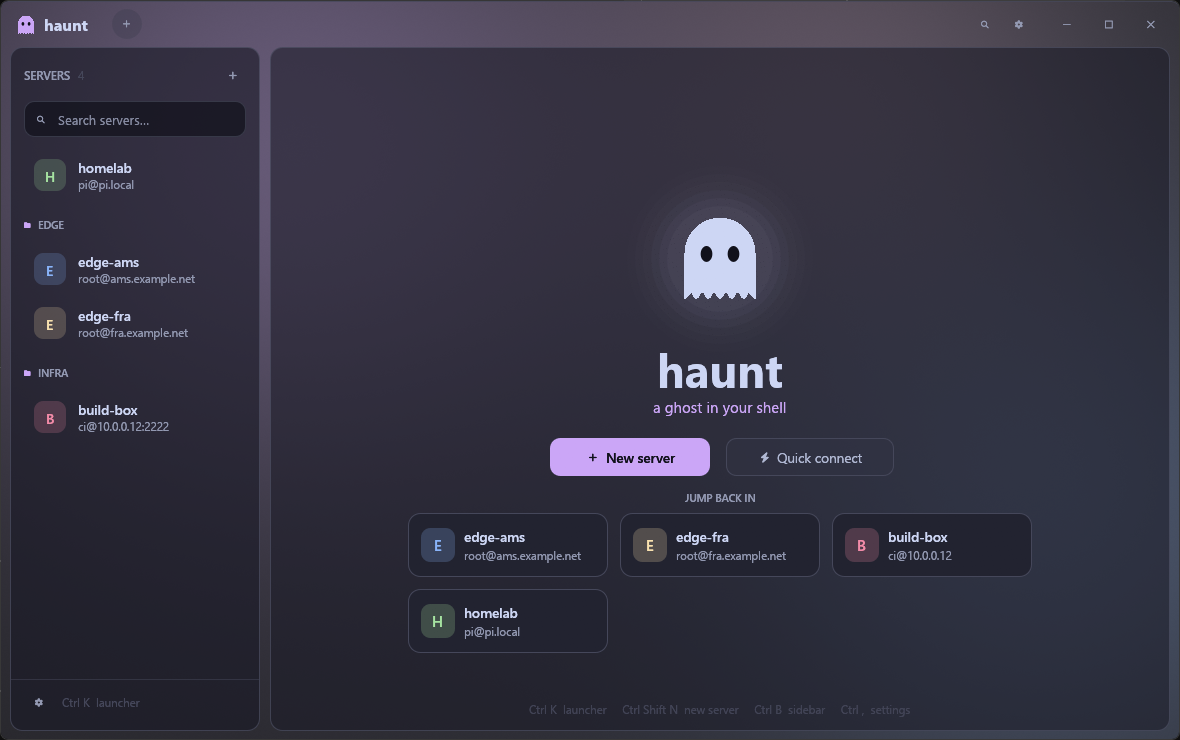
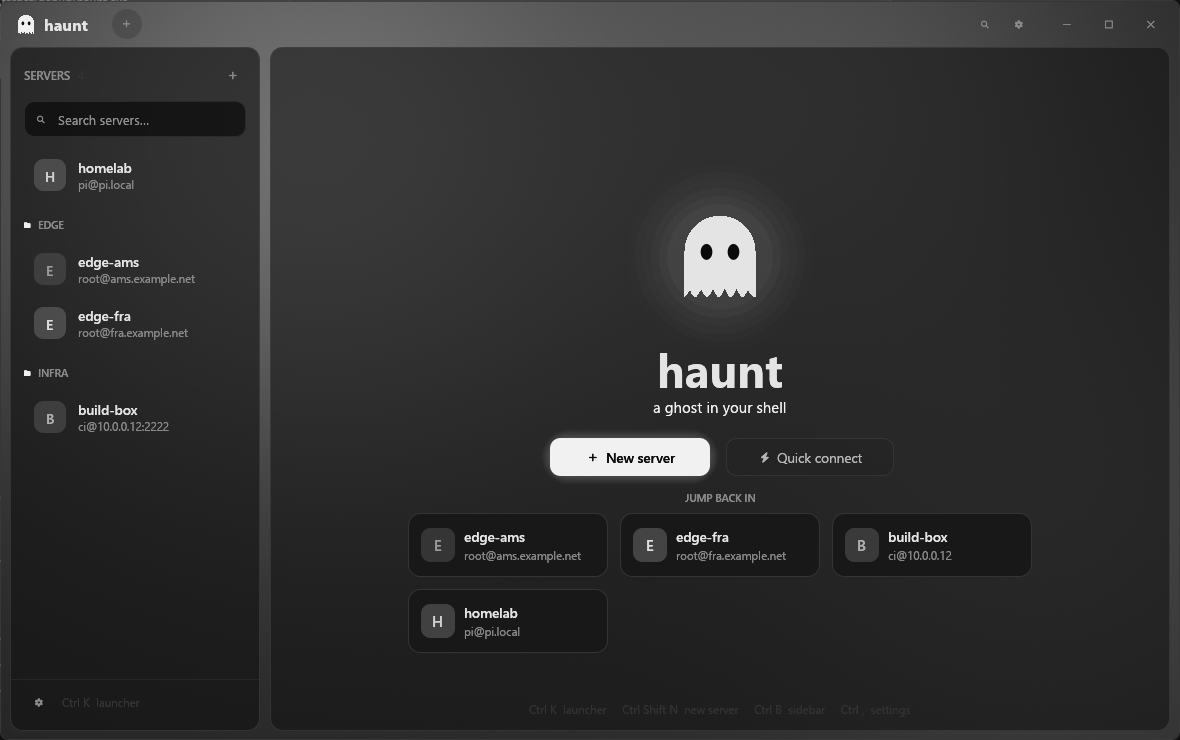
GUI subsystem always (no console window, instant start), Graphite Mono default, README screenshot

diff --git a/src/app.rs b/src/app.rs
@@ -100,7 +100,9 @@ pub struct HauntApp {
 
 impl HauntApp {
     pub fn new(cc: &eframe::CreationContext<'_>, rt: tokio::runtime::Handle) -> Self {
+        let t0 = std::time::Instant::now();
         fonts::install(&cc.egui_ctx);
+        log::debug!("startup: fonts {:?}", t0.elapsed());
         let (mut cfg, load_error) = Config::load();
         // Debug builds: override opacity for visual tests without touching the saved config.
         #[cfg(debug_assertions)]
@@ -109,8 +111,10 @@ impl HauntApp {
         }
         let theme = theme::by_name(&cfg.settings.theme);
 
+        log::debug!("startup: config {:?}", t0.elapsed());
         platform::round_corners(cc);
         let blur_active = cfg.settings.blur && platform::set_blur(cc, true);
+        log::debug!("startup: window chrome {:?}", t0.elapsed());
         let aurora = cc.gl.as_ref().and_then(|gl| match Aurora::new(gl) {
             Ok(a) => Some(Arc::new(a)),
             Err(e) => {
@@ -119,6 +123,7 @@ impl HauntApp {
             }
         });
 
+        log::debug!("startup: shader {:?}", t0.elapsed());
         let mut app = Self {
             palette: theme.palette256(),
             applied_theme: String::new(),
@@ -618,7 +623,7 @@ impl HauntApp {
             ui.multiply_opacity(appear);
             ui.horizontal(|ui| {
                 ui.label(RichText::new("SERVERS").font(fonts::bold(11.5)).color(t.subtext));
-                ui.label(RichText::new(self.cfg.servers.len().to_string()).font(fonts::ui(11.5)).color(t.overlay));
+                ui.label(RichText::new(self.cfg.servers.len().to_string()).font(fonts::ui(11.5)).color(t.subtext.gamma_multiply(0.6)));
                 ui.with_layout(egui::Layout::right_to_left(egui::Align::Center), |ui| {
                     if widgets::icon_button(ui, t, icon::PLUS, vec2(26.0, 24.0), false).on_hover_text("New server  (Ctrl+Shift+N)").clicked() {
                         add = true;
@@ -1349,6 +1354,9 @@ impl eframe::App for HauntApp {
         let ctx = ui.ctx().clone();
         let now = ctx.input(|i| i.time);
         let started = *self.started.get_or_insert(now);
+        if self.started == Some(now) {
+            log::debug!("startup: first frame begins");
+        }
         self.apply_style(&ctx);
 
         if self.blur_wanted != self.cfg.settings.blur {
@@ -1461,6 +1469,9 @@ impl eframe::App for HauntApp {
         self.settings_dialog(&ctx);
         self.launcher_dialog(&ctx);
         self.draw_toasts(&ctx);
+        if self.started == Some(now) {
+            log::debug!("startup: first frame built");
+        }
 
         // When a dialog closes (Esc, click outside) or focus ends up nowhere, hand the
         // keyboard back to the terminal so keys don't silently go nowhere.

diff --git a/src/main.rs b/src/main.rs
@@ -1,4 +1,5 @@
-#![cfg_attr(not(debug_assertions), windows_subsystem = "windows")]
+// Always a GUI app: no console window. Logs still reach a terminal we were started from (see `attach_console`).
+#![windows_subsystem = "windows"]
 
 mod anim;
 mod app;
@@ -16,6 +17,7 @@ mod widgets;
 use eframe::egui;
 
 fn main() -> eframe::Result {
+    attach_console();
     env_logger::Builder::from_env(env_logger::Env::default().default_filter_or("warn")).init();
 
     // Network I/O runs on a small dedicated runtime; the UI thread never blocks on it.
@@ -45,4 +47,17 @@ fn main() -> eframe::Result {
     );
     runtime.shutdown_timeout(std::time::Duration::from_secs(1));
     result
+}
+
+/// When launched from a terminal, attach to it so `RUST_LOG` output is visible.
+/// Started from Explorer there is no parent console and this does nothing.
+fn attach_console() {
+    #[cfg(windows)]
+    {
+        use windows_sys::Win32::System::Console::{ATTACH_PARENT_PROCESS, AttachConsole};
+        // SAFETY: plain Win32 call without pointers.
+        unsafe {
+            AttachConsole(ATTACH_PARENT_PROCESS);
+        }
+    }
 }

diff --git a/src/config.rs b/src/config.rs
@@ -99,7 +99,7 @@ pub struct Settings {
 impl Default for Settings {
     fn default() -> Self {
         Self {
-            theme: "Catppuccin Mocha".into(),
+            theme: "Graphite Mono".into(),
             font_size: 13.5,
             line_height: 1.2,
             scrollback: 10_000,
